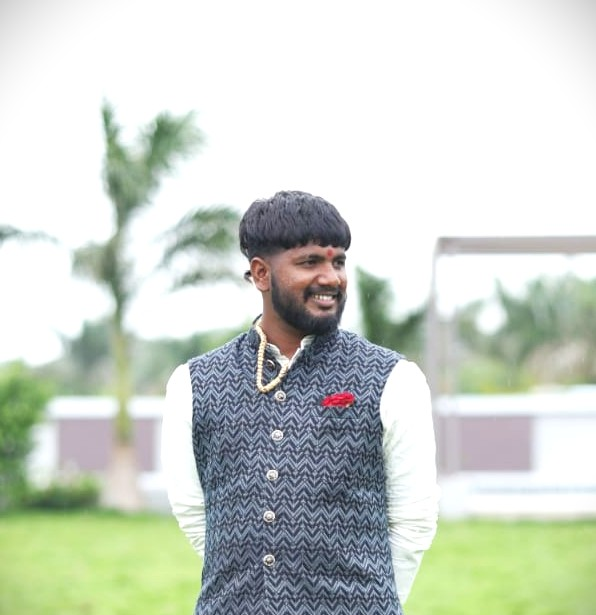
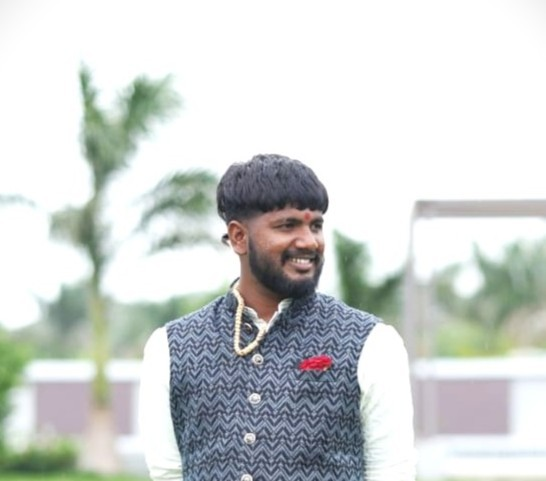
update

diff --git a/index.html b/index.html
@@ -51,44 +51,12 @@
     <main>
       <!-- Home Section -->
       <section id="home" class="hero">
+        <p class="hero-story">
+          वारकरी अमृततुल्यमध्ये आपले स्वागत आहे — जिथे परंपरा आणि स्वाद एकत्र
+          येतात! ☕🌿
+        </p>
         <img src="images/arpit.jpg" alt="Owner Photo" class="owner-photo" />
         <h2>संस्थापक: श्री. अर्पित येलाले</h2>
-
-        <p class="contact-title">🤳आमच्याशी संपर्क साधण्यासाठी👇</p>
-
-        <div class="contact-icons">
-          <a href="tel:+917559253846" class="phone" title="Call">
-            <i class="fas fa-phone-alt" aria-hidden="true"></i>
-            <span class="sr-only">Call</span>
-          </a>
-
-          <a
-            href="https://wa.me/917559253846"
-            class="whats"
-            target="_blank"
-            rel="noopener"
-            title="WhatsApp"
-          >
-            <i class="fab fa-whatsapp" aria-hidden="true"></i>
-            <span class="sr-only">WhatsApp</span>
-          </a>
-
-          <a
-            href="https://www.instagram.com/varkari_amruttulya_mh13?utm_source=ig_web_button_share_sheet&igsh=ZDNlZDc0MzIxNw=="
-            class="insta"
-            target="_blank"
-            rel="noopener"
-            title="Instagram"
-          >
-            <i class="fab fa-instagram" aria-hidden="true"></i>
-            <span class="sr-only">Instagram</span>
-          </a>
-
-          <a href="mailto:yourmail@gmail.com" class="email" title="Email">
-            <i class="fas fa-envelope" aria-hidden="true"></i>
-            <span class="sr-only">Email</span>
-          </a>
-        </div>
       </section>
 
       <marquee direction="left" style="color: #d2691e">
@@ -108,24 +76,27 @@
           सुरुवात केली. त्यांच्या मेहनतीमुळे आज वारकरी अमृततुल्य अनेक शाखांमधून
           लोकांच्या हृदयात स्थान मिळवत आहे.
         </p>
+        <p class="section-separator">✦✧✦✧✦</p>
       </section>
 
       <!-- Menu Section -->
-      <section id="menu" class="menu">
+      <section id="about">
         <h2>मेन्यू</h2>
-        <div class="menu-items">
-          <div class="item">
-            <h3>गुळाचा चहा</h3>
+        <section id="menu" class="menu">
+          <div class="menu-items">
+            <div class="item">
+              <h3>गुळाचा चहा</h3>
+            </div>
+            <div class="item">
+              <h3>गुळाचा क्रीमरोल</h3>
+            </div>
+            <div class="item">
+              <h3>कॉफी</h3>
+            </div>
           </div>
-          <div class="item">
-            <h3>गुळाचा क्रीमरोल</h3>
-          </div>
-          <div class="item">
-            <h3>कॉफी</h3>
-          </div>
-        </div>
+        </section>
+        <p class="section-separator">✦✧✦✧✦</p>
       </section>
-
       <!-- Branches Section -->
       <section id="branches">
         <h2>आमच्या शाखा</h2>
@@ -184,27 +155,64 @@
             </a>
           </div>
         </div>
+        <p class="section-separator">✦✧✦✧✦</p>
       </section>
 
       <!-- Testimonials Section -->
       <section id="testimonials">
         <h2>ग्राहकांचे अभिप्राय</h2>
         <blockquote>
-          "वारकरी अमृततुल्यचा गुळाचा चहा म्हणजे खरंच स्वर्गीय अनुभव!" –
-          अजिंक्य राणा पाटील
+          "वारकरी अमृततुल्यचा गुळाचा चहा म्हणजे खरंच स्वर्गीय अनुभव!" – अजिंक्य
+          राणा पाटील
         </blockquote>
         <blockquote>
           "वारकरी अमृततुल्य गुळाचा चहा इतका मस्त की रोज येऊन प्यावं वाटतं." –
           मोहोळकर
         </blockquote>
+        <p class="section-separator">✦✧✦✧✦</p>
       </section>
 
       <!-- Contact Section -->
       <section id="contact">
         <h2>संपर्क</h2>
-        <p>📞 फोन: +91 7559253846</p>
+
+        <div class="contact-icons">
+          <a href="tel:+917559253846" class="phone" title="Call">
+            <i class="fas fa-phone-alt" aria-hidden="true"></i>
+            <span class="sr-only">Call</span>
+          </a>
+
+          <a
+            href="https://wa.me/917559253846"
+            class="whats"
+            target="_blank"
+            rel="noopener"
+            title="WhatsApp"
+          >
+            <i class="fab fa-whatsapp" aria-hidden="true"></i>
+            <span class="sr-only">WhatsApp</span>
+          </a>
+
+          <a
+            href="https://www.instagram.com/varkari_amruttulya_mh13?utm_source=ig_web_button_share_sheet&igsh=ZDNlZDc0MzIxNw=="
+            class="insta"
+            target="_blank"
+            rel="noopener"
+            title="Instagram"
+          >
+            <i class="fab fa-instagram" aria-hidden="true"></i>
+            <span class="sr-only">Instagram</span>
+          </a>
+
+          <a href="mailto:yourmail@gmail.com" class="email" title="Email">
+            <i class="fas fa-envelope" aria-hidden="true"></i>
+            <span class="sr-only">Email</span>
+          </a>
+        </div>
+        <br />
         <p>📍 पत्ता: मोहोळ (सोलापूर), महाराष्ट्र</p>
         <p>⌚ वेळ: सकाळी 6:00 ते रात्री 10:00</p>
+        <p class="section-separator">✦✧✦✧✦</p>
       </section>
     </main>
 
@@ -215,7 +223,7 @@
         alt="Varkari Cup Logo"
         class="footer-logo"
       />
-      <p>© 2025 वारकरी अमृततुल्य | सर्व हक्क राखीव</p>
+      <p>© 2025 Varkari Amruttulya | All Rights Reserved</p>
       <p>
         💻 Designed & Developed by
         <a

diff --git a/style.css b/style.css
@@ -87,6 +87,15 @@ main {
   margin: auto;
 }
 
+.hero .owner-photo {
+  width: 250px !important;    /* increase size */
+  height: 250px !important;   /* keep it square */
+  border-radius: 50%;         /* circular look */
+  object-fit: cover;          /* maintain aspect ratio */
+  display: block;
+  margin: 1rem auto;          /* center horizontally */
+}
+
 /* Hero Section */
 .hero {
   position: relative;
@@ -124,13 +133,20 @@ main {
 }
 
 .hero h2 {
-  font-size: 1.6rem;
-  margin-bottom: 10px;
+  font-size: 1.2rem;
+  color: #d2691e;
+  text-align: center;
+  background-color: rgba(255, 255, 255, 0.842);
+  font-weight: bold ;
+  box-shadow:#333;
+  border-radius: 10px;
+  padding: 15px;
+  text-shadow: #5a2d0c;
+  border: #f4e1d2;
 }
 
 .hero p {
-  margin-top: 20px;
-  color: rgb(255, 255, 255);
+  color: #d2691e;
   border-color: rgb(15, 14, 14);
 }
 
@@ -153,7 +169,6 @@ main {
 
 /* About Section */
 section {
-  padding: 3rem 0;
   text-align: center;
 }
 
@@ -412,4 +427,25 @@ main {
   margin: auto;
   padding-left: 1rem;
   padding-right: 1rem;
+}
+
+.section-separator {
+  text-align: center;
+  font-size: 1.5rem;   /* size of the stars/dots */
+  color: #d2691e;      /* match your theme color */
+  margin: 1.5rem 0;    /* spacing above & below */
+  letter-spacing: 0.5rem; /* space between symbols */
+}
+
+.hero-story {
+  font-size: 1.2rem;
+  color: #d2691e;
+  text-align: center;
+  background-color: rgba(255, 255, 255, 0.842);
+  font-weight: bold ;
+  box-shadow:#333;
+  border-radius: 10px;
+  padding: 15px;
+  text-shadow: #5a2d0c;
+  border: #f4e1d2;
 }
